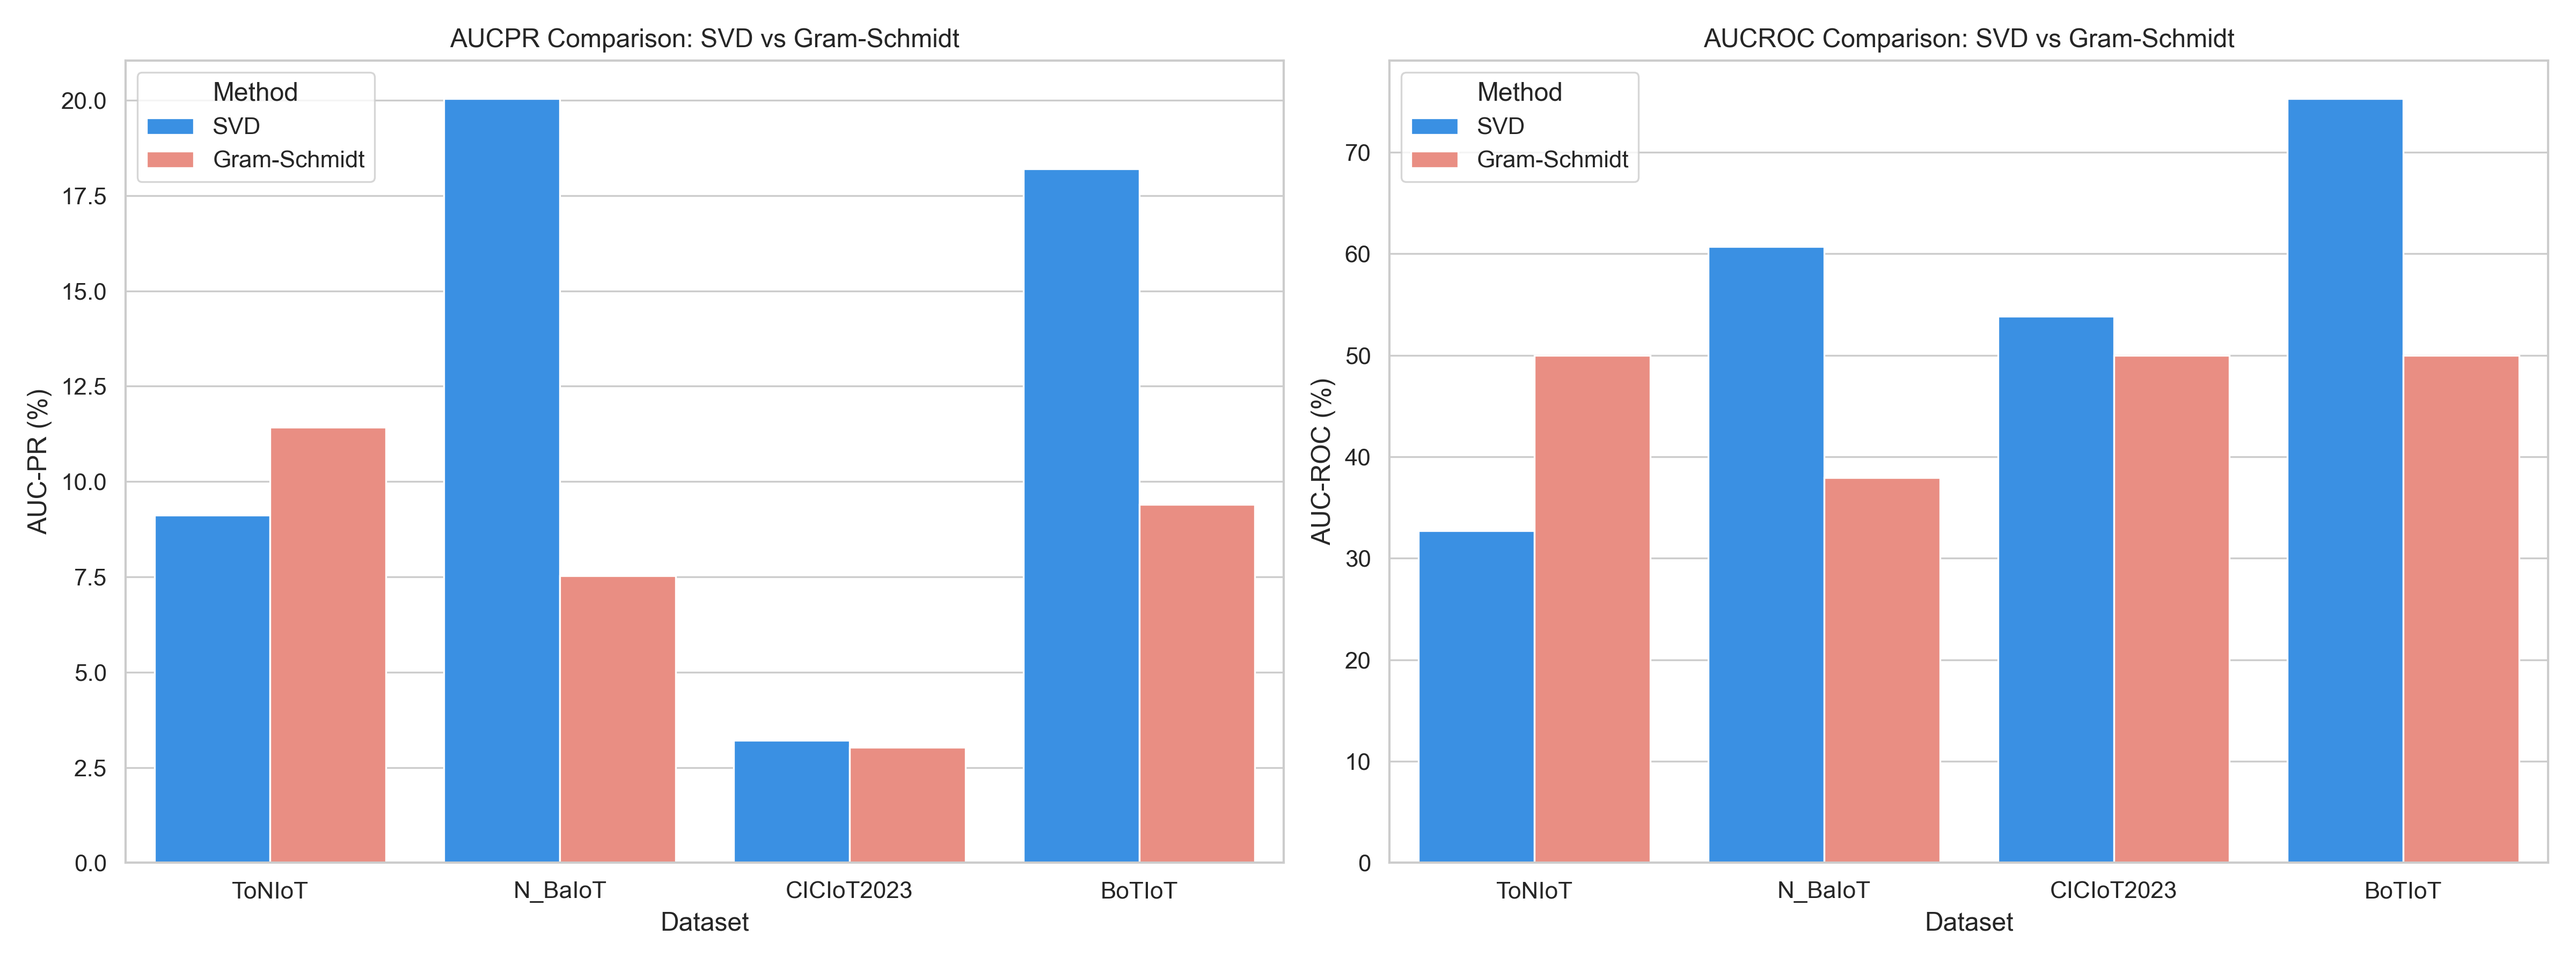
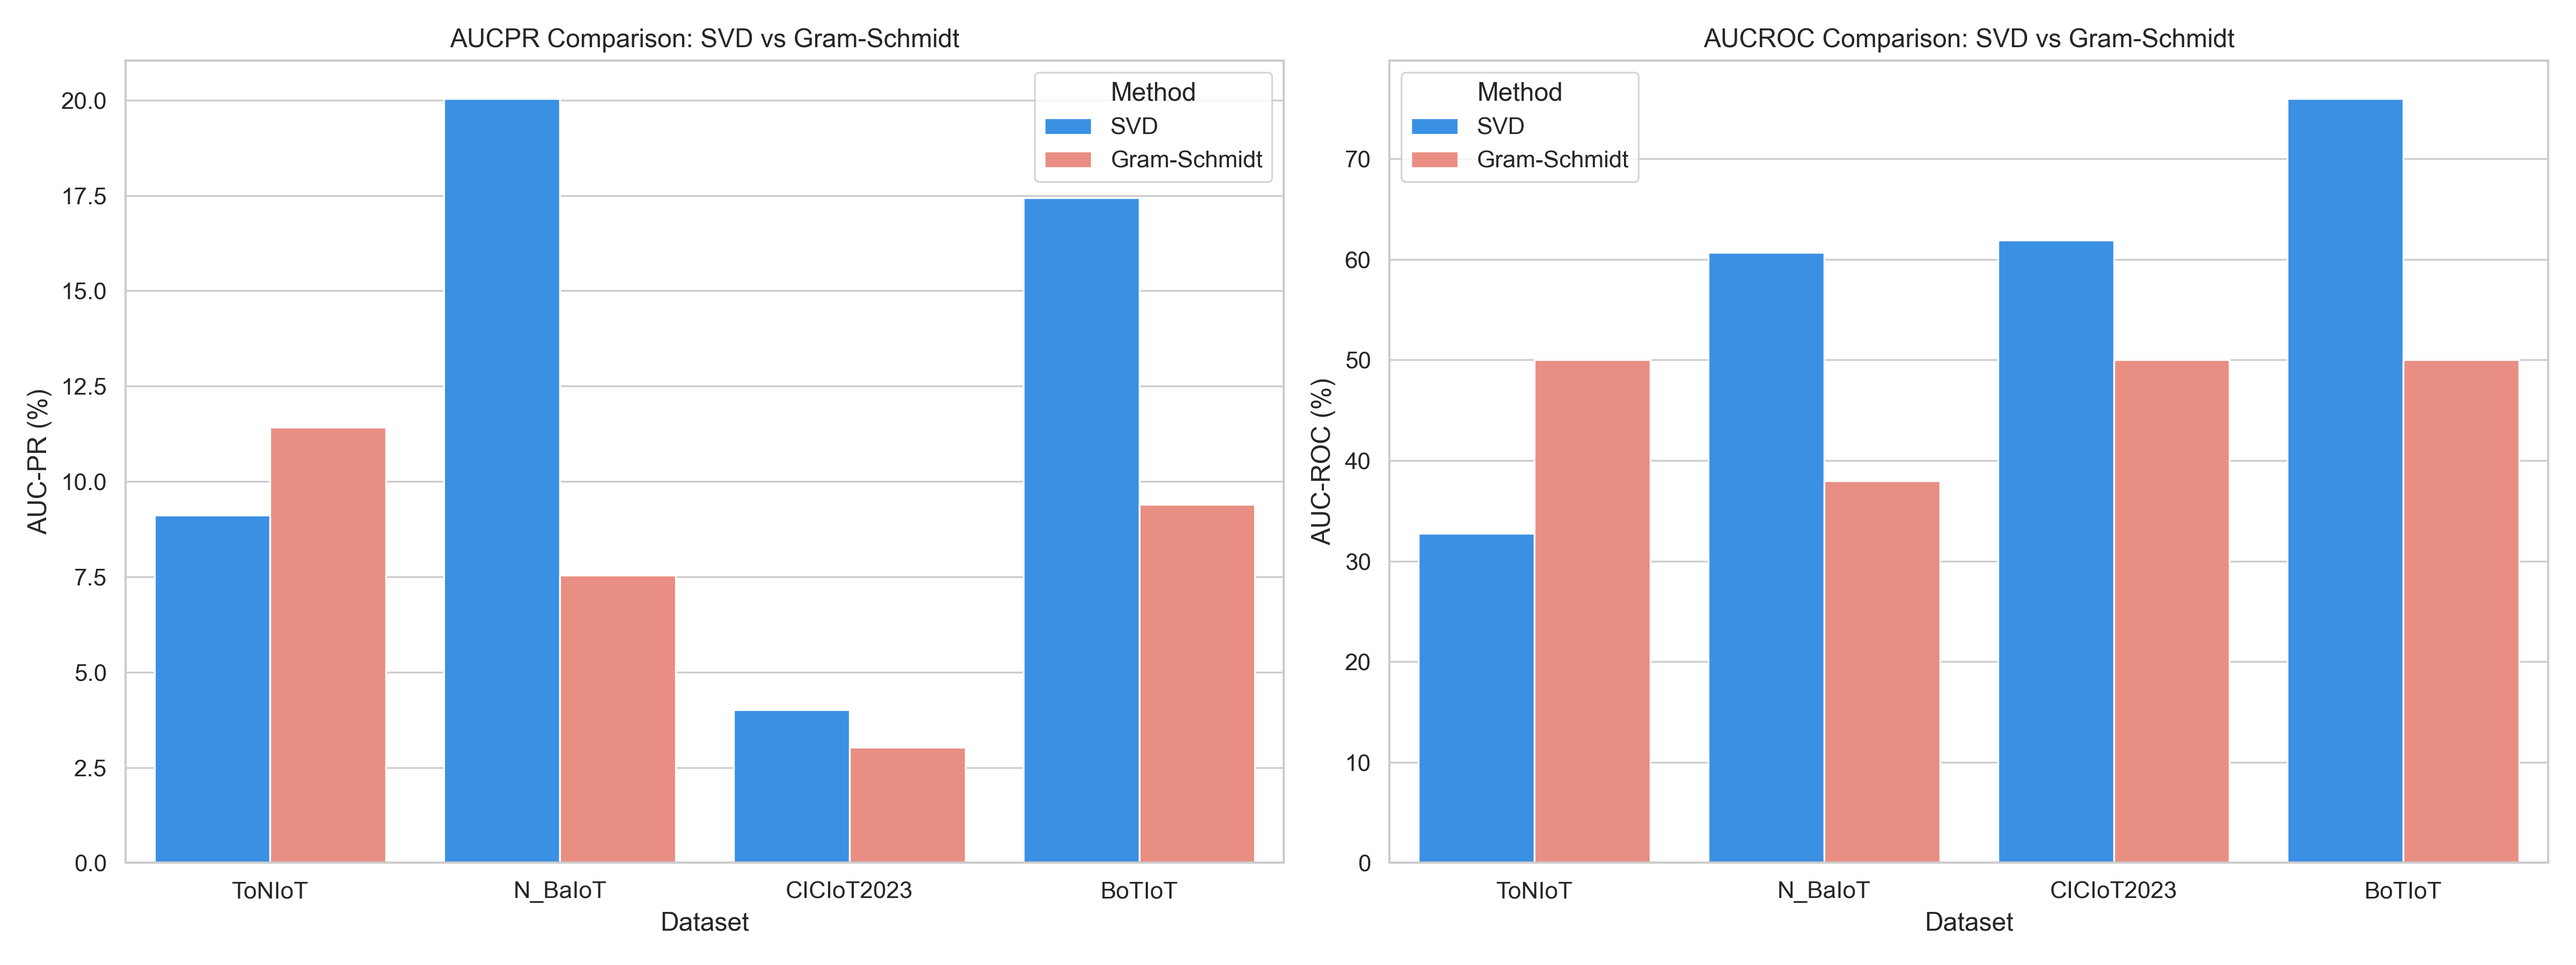
Fix: standard some path directory

diff --git a/main.tex b/main.tex
@@ -929,7 +929,7 @@ To address the challenges outlined in the Introduction, this section details the
 \end{itemize}
 
 % Describing datasets and their configurations
-\subsection{Datasets}
+\subsubsection{Datasets}
 \label{subsec:datasets}
 To address \textbf{RQ1}, we use four IoT datasets, each with 100,000 samples: \textbf{CICIoT2023} and \textbf{N-BaIoT} capture diverse network attacks and IoT device traffic for anomaly detection, while \textbf{BoTIoT} and \textbf{ToNIoT} focus on botnet activities and real-world IoT traffic, enabling comprehensive analysis of varied IoT scenarios ~\cite{neto2023ciciot2023, 8490192, koroniotis2019towards, fesz-dm97-19}. (detail described in  \ref{ap1:datasets})
 \vspace{1em}
@@ -1204,6 +1204,48 @@ In summary, the results validate the \textbf{superior detection capability and g
 }
 \label{tab:ids_comparison}
 \end{table*}
+
+\subsubsection{Ablation Study: Gram-Schmidt vs. SVD Optimization}
+To demonstrate the advantage of replacing the standard Gram-Schmidt orthogonalization with Singular Value Decomposition (SVD) for determining the Null Projecting Directions (NPDs) in the proposed XXX framework, we conducted an ablation study across all four IoT datasets. The core motivation for this enhancement lies in the computational stability and efficiency properties of SVD when handling high-dimensional or nearly singular covariance matrices compared to classical Gram-Schmidt methods. In this setting, we uniformly clustered the training data into \(K=2\) clusters to evaluate the nullspace behavior.
+
+\textbf{Performance and Robustness Insights:} Figure~\ref{fig:svd_gs_performance} validates that both SVD and Gram-Schmidt variants mathematically span the correct nullspace, yielding nearly identical Area Under Precision-Recall (AUC-PR) and AUC-ROC scores across datasets. However, the SVD formulation ensures numerical stability in cases where Gram-Schmidt may fail due to loss of orthogonality, preventing silent degradation of classification metrics.
+
+\begin{figure}[!ht]
+\centering
+\includegraphics[width=\columnwidth]{notebooks/analysis/svd_vs_gs/plots/SVD_vs_GS_Performance.png} 
+\caption{AUC-PR and AUC-ROC comparison between SVD and Gram-Schmidt strategies showing consistent subspace detection performance.}
+\label{fig:svd_gs_performance}
+\end{figure}
+
+\textbf{Projected Space Visualization:} To intuitively grasp the transformation, Figure~\ref{fig:svd_gs_projection} visualizes the 2D Principal Component Analysis (PCA) projection of the resulting subspace mappings for both algorithms. The projected normal and anomalous samples exhibit similar degrees of separation under both methods; however, the SVD method consistently projects the instances into a more uniformly distributed basis representation, reducing localized structural distortions.
+
+\begin{figure}[!ht]
+\centering
+% Replace placeholder with specific dataset projection if desired (e.g., Projection_2D_BoTIoT.png)
+\includegraphics[width=\columnwidth]{notebooks/analysis/svd_vs_gs/plots/Projection_2D_BoTIoT.png} 
+\caption{2D PCA Visualization of the projected feature space highlighting the distribution patterns derived from SVD versus Gram-Schmidt.}
+\label{fig:svd_gs_projection}
+\end{figure}
+
+\textbf{Computational Efficiency and Memory Resources:} 
+The most significant impact of the SVD transition emerges during computational execution. As shown in Figure~\ref{fig:svd_gs_time}, deriving the nullspace basis through SVD drastically reduces the training time complexity (note the logarithmic scale), offering near-instantaneous computation compared to the iterative sequential tracking required by Gram-Schmidt over large dimensions. Furthermore, Figure~\ref{fig:svd_gs_memory} records the Peak RAM footprint during the algorithm's execution, affirming that the SVD routine leverages optimized LAPACK routines to maintain an equal or lower memory ceiling than the less parallelizable Gram-Schmidt approach. This confirms that the SVD integration simultaneously preserves detection accuracy while exponentially enhancing the scalability of the entire anomaly detection pipeline.
+
+\begin{figure}[!ht]
+\centering
+\begin{subfigure}{\columnwidth}
+    \includegraphics[width=\columnwidth]{notebooks/analysis/svd_vs_gs/plots/SVD_vs_GS_Time.png} 
+    \caption{Logarithmic comparison of training and inference times.}
+    \label{fig:svd_gs_time}
+\end{subfigure}
+\vspace{0.5cm}
+\begin{subfigure}{\columnwidth}
+    \includegraphics[width=\columnwidth]{notebooks/analysis/svd_vs_gs/plots/SVD_vs_GS_Memory.png} 
+    \caption{Comparison of Peak RAM overhead during training execution.}
+    \label{fig:svd_gs_memory}
+\end{subfigure}
+\caption{Time complexity and Memory footprint validation emphasizing the scalability of the SVD enhancement.}
+\label{fig:svd_gs_efficiency}
+\end{figure}
 
 % ========================
 \section{Conclusion}

diff --git a/notebooks/analysis/svd_vs_gs/compare_svd_gs.py b/notebooks/analysis/svd_vs_gs/compare_svd_gs.py
@@ -10,6 +10,7 @@ from sklearn.metrics import (matthews_corrcoef, f1_score, precision_score,
                              recall_score, accuracy_score, roc_auc_score, 
                              average_precision_score)
 from sklearn.cluster import KMeans
+from sklearn.decomposition import PCA
 from sklearn.impute import SimpleImputer
 from scipy.spatial.distance import cdist
 from scipy.linalg import null_space
@@ -125,11 +126,55 @@ def evaluate_predictions(y_true, y_prob):
     auc_pr = average_precision_score(y_true_flipped, 1 - y_prob)
     return auc_roc * 100, auc_pr * 100
 
+def plot_2d_projections(dataset_name, projected_data, y_test):
+    os.makedirs("plots", exist_ok=True)
+    fig, axes = plt.subplots(1, 2, figsize=(14, 6))
+    
+    for ax, (method, X_proj) in zip(axes, projected_data.items()):
+        if X_proj.shape[1] > 2:
+            pca = PCA(n_components=2)
+            X_2d = pca.fit_transform(X_proj)
+        elif X_proj.shape[1] == 2:
+            X_2d = X_proj
+        elif X_proj.shape[1] == 1:
+            X_2d = np.hstack([X_proj, np.zeros_like(X_proj)])
+        else:
+            X_2d = np.zeros((X_proj.shape[0], 2))
+            
+        # Sample points if too large to avoid cluttered plots
+        n_samples = X_2d.shape[0]
+        if n_samples > 10000:
+            idx = np.random.choice(n_samples, 10000, replace=False)
+            X_plot = X_2d[idx]
+            y_plot = y_test[idx]
+        else:
+            X_plot = X_2d
+            y_plot = y_test
+            
+        # Rename labels for legend (0 -> Normal, 1 -> Anomaly)
+        labels = np.where(y_plot == 0, 'Normal (0)', 'Anomaly (1)')
+        palette = {'Normal (0)': 'dodgerblue', 'Anomaly (1)': 'salmon'}
+        
+        sns.scatterplot(x=X_plot[:, 0], y=X_plot[:, 1], hue=labels, palette=palette, ax=ax, alpha=0.5, s=20, edgecolor=None)
+        ax.set_title(f"{method} Projection (PCA 2D)")
+        ax.set_xlabel("Principal Component 1")
+        ax.set_ylabel("Principal Component 2")
+        
+    plt.suptitle(f"Projected Space Distribution: {dataset_name}", fontweight='bold')
+    plt.tight_layout()
+    plt.savefig(f"plots/Projection_2D_{dataset_name}.png", dpi=300)
+    plt.close()
+
 # ----------------- Pipeline -----------------
 def run_comparison():
     datasets = ['data_ToNIoT.csv', 'data_N_BaIoT.csv', 'data_CICIoT2023.csv', 'data_BoTIoT.csv']
     scaler = 'MinMaxScaler'
-    base_dir = r"d:\project (1)\GMM-nfst\Datascaled\NoiseOCData"
+    # Data directory can be set via the DATA_DIR environment variable for server deployments.
+    # Example: export DATA_DIR=/data/GMM-nfst/Datascaled/NoiseOCData
+    # Locally, it falls back to a relative path from this file.
+    _script_dir = os.path.dirname(os.path.abspath(__file__))
+    _default_data_dir = os.path.normpath(os.path.join(_script_dir, '..', '..', '..', 'Datascaled', 'NoiseOCData'))
+    base_dir = os.environ.get('DATA_DIR', _default_data_dir)
     results = []
 
     for ds in datasets:
@@ -157,6 +202,7 @@ def run_comparison():
         X_train_clustered, y_train_clustered, cluster_centers = cluster_kmeans(X_train, n_clusters)
         
         methods = {"SVD": calculate_NPD_svd, "Gram-Schmidt": calculate_NPD_gs}
+        projected_data_for_plot = {}
         
         for method_name, npd_func in methods.items():
             print(f"  --> Running {method_name} Variant...")
@@ -191,6 +237,8 @@ def run_comparison():
             y_prob_standardized = (y_prob - y_prob.min()) / (y_prob.max() - y_prob.min() + 1e-10)
             auc_roc, auc_pr = evaluate_predictions(y_test, y_prob_standardized)
             
+            projected_data_for_plot[method_name] = null_point_X_test
+            
             results.append({
                 "Dataset": ds.replace('data_', '').replace('.csv', ''),
                 "Method": method_name,
@@ -201,6 +249,9 @@ def run_comparison():
                 "Peak RAM Train (MB)": peak_train / 10**6,
                 "Peak RAM Test (MB)": peak_test / 10**6
             })
+            
+        ds_name = ds.replace('data_', '').replace('.csv', '')
+        plot_2d_projections(ds_name, projected_data_for_plot, y_test)
             
     df_results = pd.DataFrame(results)
     df_results.to_csv("svd_vs_gs_results.csv", index=False)

diff --git a/baseline_model/dif_wrapper.py b/baseline_model/dif_wrapper.py
@@ -31,11 +31,10 @@ except ModuleNotFoundError:
     current_dir = os.path.dirname(os.path.abspath(__file__))
     possible_paths = [
         current_dir,
-        os.path.join(current_dir, '.'), 
-
+        os.path.join(current_dir, '.'),
         os.path.join(current_dir, '..', 'deep-iforest'),
         os.path.join(current_dir, '..', '..', 'deep-iforest'),
-        r'D:\UIT\Research\Duongcpmputer\baselinePlus\deep-iforest',
+        os.path.join(current_dir, '..', '..', '..', 'deep-iforest'),
     ]
     
     deep_iforest_path = None

diff --git a/restructure_paper.py b/restructure_paper.py
@@ -1,6 +1,9 @@
 import re
+import os
 
-filepath = r'd:\UIT\Research\Duongcpmputer\LOC-NFST\UIT_Research_NFST\main.tex'
+# Use path relative to this script's location so it works on any machine/server
+_script_dir = os.path.dirname(os.path.abspath(__file__))
+filepath = os.path.join(_script_dir, 'main.tex')
 
 with open(filepath, 'r', encoding='utf-8') as f:
     text = f.read()
